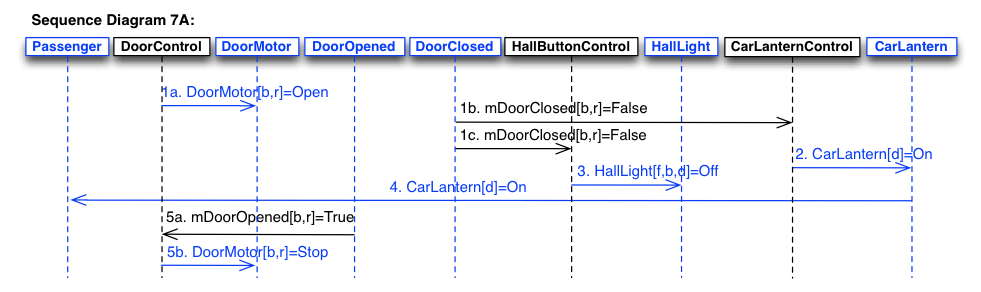
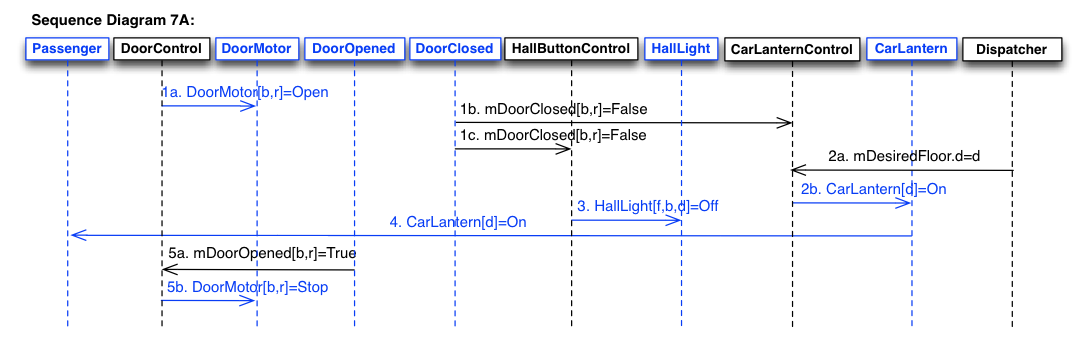
SD 7A, 7C changes

diff --git a/portfolio/scen_sd/scen_sd.html b/portfolio/scen_sd/scen_sd.html
@@ -38,9 +38,11 @@
           <li><a
 href="file:///Users/Collin/Workspace/ece649-g17/portfolio/scen_sd/scen_sd.html#scenario3a">Scenario
 
+
               3A</a> </li>
           <li><a
 href="file:///Users/Collin/Workspace/ece649-g17/portfolio/scen_sd/scen_sd.html#scenario3b">Scenario
+
 
               3B</a></li>
         </ul>
@@ -356,6 +358,7 @@ src="file:///Users/Collin/Workspace/ece649-g17/portfolio/scen_sd/sd10a.png"><br>
 
 
 
+
         Case 5: Passenger Triggers Door Reversal </h2>
       <h3> <a name="scenario5a" id="scenario5a"></a>Scenario 5A:
         Passenger attempts to enter the car as the doors begin to close.
@@ -372,6 +375,7 @@ src="file:///Users/Collin/Workspace/ece649-g17/portfolio/scen_sd/sd10a.png"><br>
       <ol>
         <li>Door[<b>b</b>,<b>r</b>] starts to close.</li>
         <li>The passenger attempts to enter and is nudged by Door[<b>b</b>,<b>r</b>],
+
 
 
 
@@ -408,6 +412,7 @@ src="file:///Users/Collin/Workspace/ece649-g17/portfolio/scen_sd/sd10a.png"><br>
       <ol>
         <li>Door[<b>b</b>,<b>r</b>] starts to close.</li>
         <li>The passenger attempts to exit and is nudged by Door[<b>b</b>,<b>r</b>],
+
 
 
 
@@ -551,12 +556,15 @@ src="file:///Users/Collin/Workspace/ece649-g17/portfolio/scen_sd/sd10a.png"><br>
       <h3> Scenario: </h3>
       <ol>
         <li>Door[<b>b,r] </b>starts to close.</li>
-        <li>Doors finish closing.<br>
+        <li>Doors finish closing.</li>
+        <li>Door motor is commanded to Stop.</li>
+        <li>The car lanterns turn off.<br>
         </li>
       </ol>
       <h3> Post-Conditions: </h3>
       <ul>
-        <li>Doors are closed.<br>
+        <li>Doors are closed.</li>
+        <li>The car lanterns are off.<br>
         </li>
       </ul>
       <h3> Sequence Diagram: </h3>
